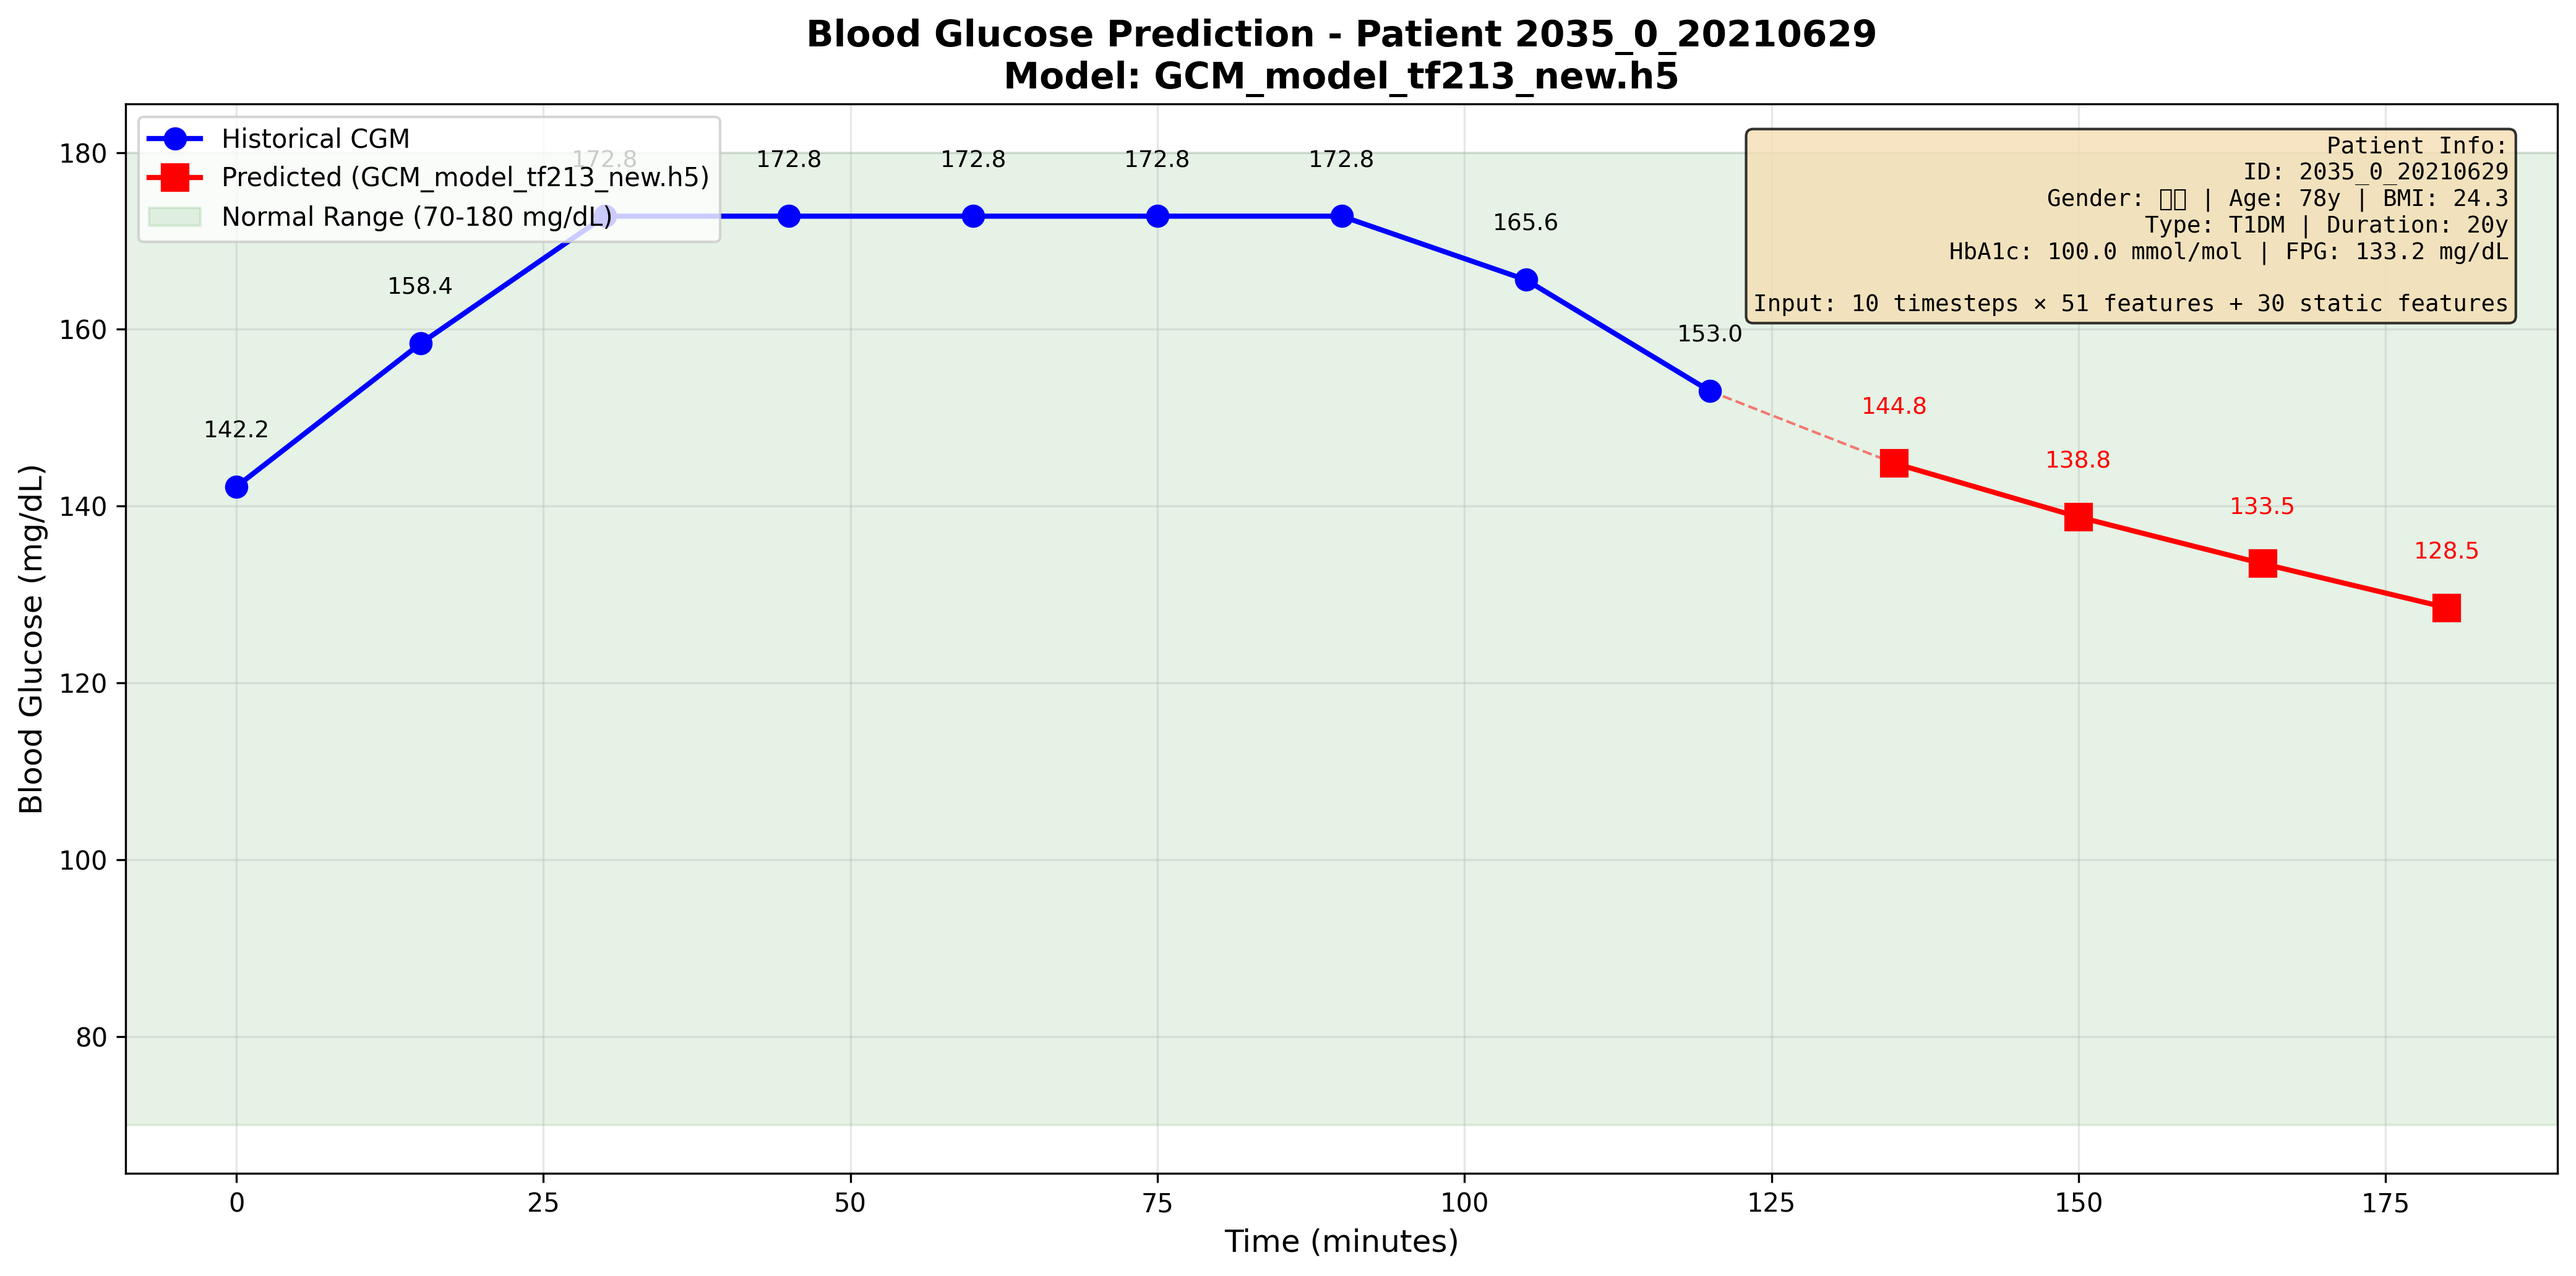
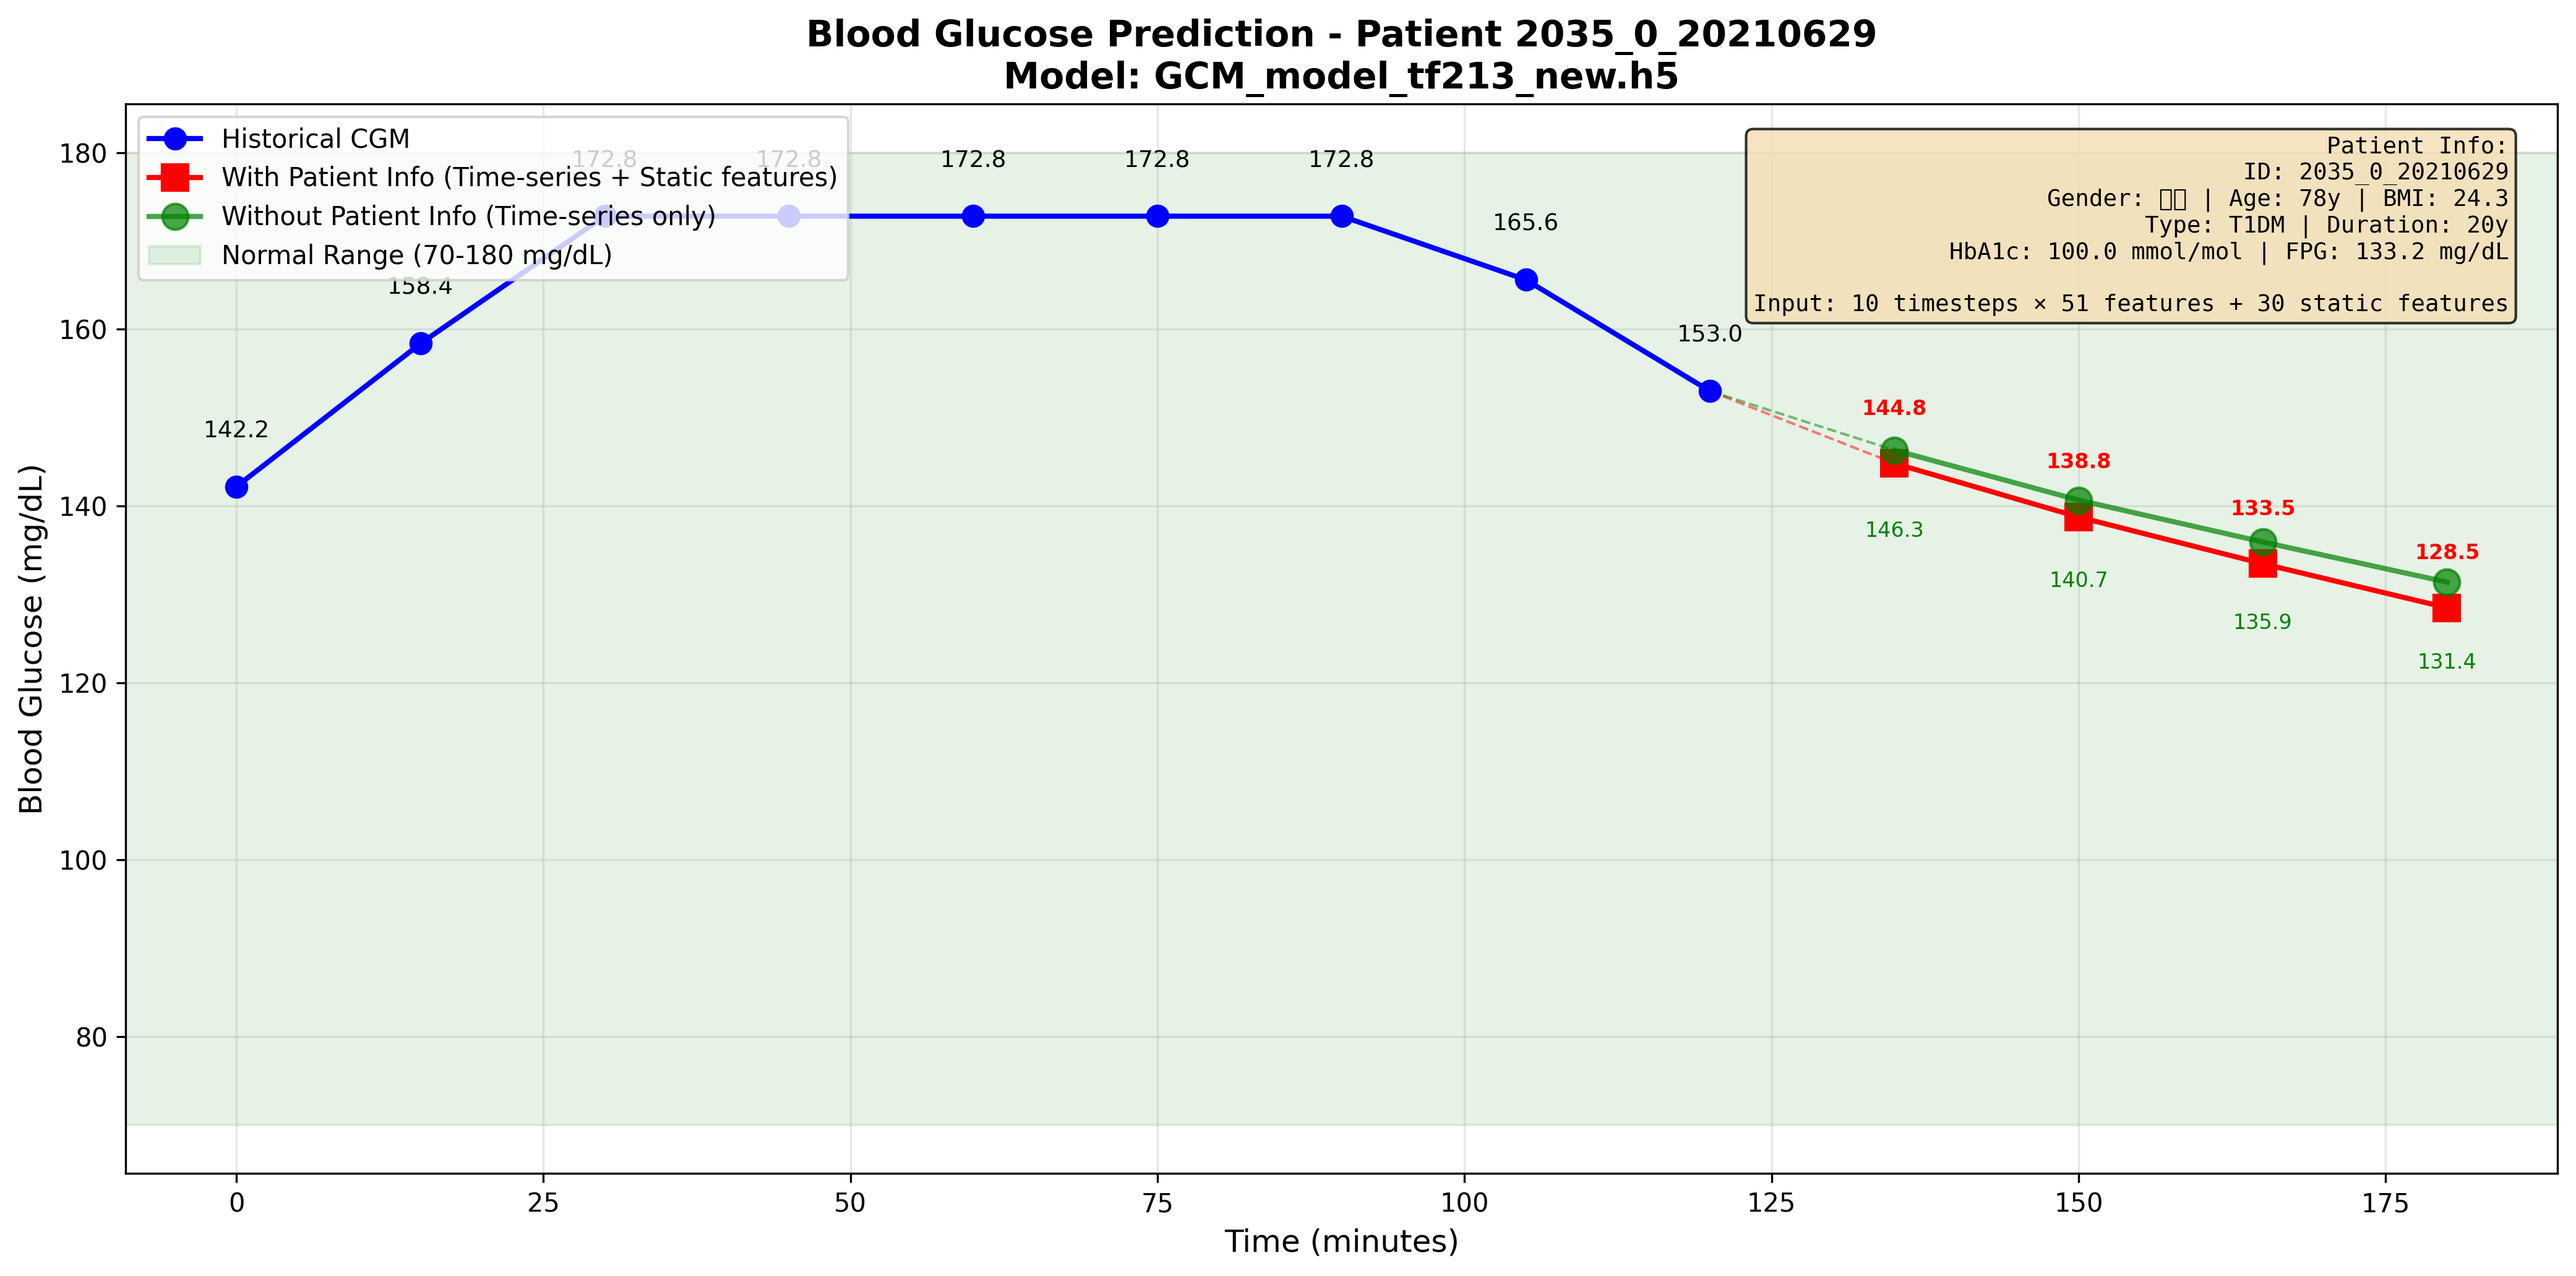
添加双预测线对比：有/无患者信息
功能改进：
- 在同一张图上显示两条预测线进行对比
- 红线：使用完整输入（时序特征 + 患者静态特征）
- 绿线：仅使用时序特征（不使用患者基本信息）
- 显示患者信息对预测的具体影响（差异分析）

预测结果分析：
- Demo1: 患者信息影响 -1.63 至 -3.94 mg/dL
- Demo2: 患者信息影响 -1.49 至 -2.91 mg/dL
- Demo3: 患者信息影响 -1.47 至 -4.18 mg/dL

可视化改进：
- 两条预测线不同颜色标识（红色vs绿色）
- 预测值标签上下分布避免重叠
- 图例清晰说明两条线的区别
- 控制台输出详细的差异分析

技术实现：
- 将静态特征设为零向量模拟不使用患者信息
- 保持时序特征不变进行对比
- 两次推理展示特征贡献度

文件更新：
- demo1_gcm_model.py
- demo2_gcm_model_tf213.py
- demo3_tflite_model.py
- 重新生成3张对比图片

🤖 Generated with [Claude Code](https://claude.com/claude-code)

diff --git a/demo3_tflite_model.py b/demo3_tflite_model.py
@@ -182,25 +182,40 @@ print("\n[7] 进行预测...")
 ts_X_input_float32 = ts_X_input.astype(np.float32)
 static_X_input_float32 = static_X_input.astype(np.float32)
 
-# 设置输入张量
+# 预测1: 使用完整输入（时序 + 患者静态特征）
+print("\n  [7.1] 使用完整输入（时序特征 + 患者静态特征）...")
 interpreter.set_tensor(input_details[0]['index'], ts_X_input_float32)
 interpreter.set_tensor(input_details[1]['index'], static_X_input_float32)
-
-# 运行推理
 interpreter.invoke()
+y_pred_full_scaled = interpreter.get_tensor(output_details[0]['index'])
+y_pred_full = scaler_y.inverse_transform(y_pred_full_scaled)
 
-# 获取输出
-y_pred_scaled = interpreter.get_tensor(output_details[0]['index'])
-print(f"预测输出形状: {y_pred_scaled.shape}")
+print("\n  完整输入预测结果:")
+print(f"    15分钟后血糖: {y_pred_full[0][0]:.2f} mg/dL")
+print(f"    30分钟后血糖: {y_pred_full[0][1]:.2f} mg/dL")
+print(f"    45分钟后血糖: {y_pred_full[0][2]:.2f} mg/dL")
+print(f"    60分钟后血糖: {y_pred_full[0][3]:.2f} mg/dL")
 
-# 反标准化
-y_pred = scaler_y.inverse_transform(y_pred_scaled)
+# 预测2: 仅使用时序特征（静态特征设为零向量）
+print("\n  [7.2] 仅使用时序特征（不使用患者基本信息）...")
+static_X_input_zero = np.zeros_like(static_X_input).astype(np.float32)
+interpreter.set_tensor(input_details[0]['index'], ts_X_input_float32)
+interpreter.set_tensor(input_details[1]['index'], static_X_input_zero)
+interpreter.invoke()
+y_pred_no_static_scaled = interpreter.get_tensor(output_details[0]['index'])
+y_pred_no_static = scaler_y.inverse_transform(y_pred_no_static_scaled)
 
-print("\n预测结果:")
-print(f"  15分钟后血糖: {y_pred[0][0]:.2f} mg/dL")
-print(f"  30分钟后血糖: {y_pred[0][1]:.2f} mg/dL")
-print(f"  45分钟后血糖: {y_pred[0][2]:.2f} mg/dL")
-print(f"  60分钟后血糖: {y_pred[0][3]:.2f} mg/dL")
+print("\n  仅时序特征预测结果:")
+print(f"    15分钟后血糖: {y_pred_no_static[0][0]:.2f} mg/dL")
+print(f"    30分钟后血糖: {y_pred_no_static[0][1]:.2f} mg/dL")
+print(f"    45分钟后血糖: {y_pred_no_static[0][2]:.2f} mg/dL")
+print(f"    60分钟后血糖: {y_pred_no_static[0][3]:.2f} mg/dL")
+
+# 计算差异
+print("\n  预测差异分析:")
+for i, time in enumerate(['15分钟', '30分钟', '45分钟', '60分钟']):
+    diff = y_pred_full[0][i] - y_pred_no_static[0][i]
+    print(f"    {time}: {diff:+.2f} mg/dL (患者信息的影响)")
 
 # 8. 可视化结果
 print("\n[8] 绘制血糖预测图...")
@@ -216,20 +231,31 @@ fig, ax = plt.subplots(figsize=(14, 7))
 # 历史血糖值
 ax.plot(time_points, cgm_values, 'bo-', linewidth=2, markersize=8, label='Historical CGM', zorder=3)
 
-# 预测血糖值
-ax.plot(prediction_times, y_pred[0], 'rs-', linewidth=2, markersize=10,
-         label='Predicted (glucose_predictor.tflite)', zorder=3)
+# 预测线1: 使用完整输入（时序 + 患者信息）
+ax.plot(prediction_times, y_pred_full[0], 'rs-', linewidth=2, markersize=10,
+         label='With Patient Info (Time-series + Static features)', zorder=3)
+
+# 预测线2: 仅使用时序特征（不使用患者信息）
+ax.plot(prediction_times, y_pred_no_static[0], 'go-', linewidth=2, markersize=10,
+         label='Without Patient Info (Time-series only)', zorder=3, alpha=0.7)
 
 # 连接线
-ax.plot([time_points[-1], prediction_times[0]], [cgm_values[-1], y_pred[0][0]],
+ax.plot([time_points[-1], prediction_times[0]], [cgm_values[-1], y_pred_full[0][0]],
          'r--', alpha=0.5, linewidth=1)
+ax.plot([time_points[-1], prediction_times[0]], [cgm_values[-1], y_pred_no_static[0][0]],
+         'g--', alpha=0.5, linewidth=1)
 
-# 添加数值标签
+# 添加数值标签 - 历史值
 for i, (t, v) in enumerate(zip(time_points, cgm_values)):
     ax.text(t, v + 5, f'{v:.1f}', ha='center', va='bottom', fontsize=9)
 
-for i, (t, v) in enumerate(zip(prediction_times, y_pred[0])):
-    ax.text(t, v + 5, f'{v:.1f}', ha='center', va='bottom', fontsize=9, color='red')
+# 添加数值标签 - 完整输入预测
+for i, (t, v) in enumerate(zip(prediction_times, y_pred_full[0])):
+    ax.text(t, v + 5, f'{v:.1f}', ha='center', va='bottom', fontsize=8, color='red', fontweight='bold')
+
+# 添加数值标签 - 仅时序预测
+for i, (t, v) in enumerate(zip(prediction_times, y_pred_no_static[0])):
+    ax.text(t, v - 8, f'{v:.1f}', ha='center', va='top', fontsize=8, color='green')
 
 # 添加正常血糖范围阴影
 ax.axhspan(70, 180, alpha=0.1, color='green', label='Normal Range (70-180 mg/dL)')

diff --git a/demo2_gcm_model_tf213.py b/demo2_gcm_model_tf213.py
@@ -165,17 +165,35 @@ print(f"模型输出: {model.output.shape}")
 
 # 7. 进行预测
 print("\n[7] 进行预测...")
-y_pred_scaled = model.predict([ts_X_input, static_X_input])
-print(f"预测输出形状: {y_pred_scaled.shape}")
 
-# 反标准化
-y_pred = scaler_y.inverse_transform(y_pred_scaled)
+# 预测1: 使用完整输入（时序 + 患者静态特征）
+print("\n  [7.1] 使用完整输入（时序特征 + 患者静态特征）...")
+y_pred_full_scaled = model.predict([ts_X_input, static_X_input], verbose=0)
+y_pred_full = scaler_y.inverse_transform(y_pred_full_scaled)
 
-print("\n预测结果:")
-print(f"  15分钟后血糖: {y_pred[0][0]:.2f} mg/dL")
-print(f"  30分钟后血糖: {y_pred[0][1]:.2f} mg/dL")
-print(f"  45分钟后血糖: {y_pred[0][2]:.2f} mg/dL")
-print(f"  60分钟后血糖: {y_pred[0][3]:.2f} mg/dL")
+print("\n  完整输入预测结果:")
+print(f"    15分钟后血糖: {y_pred_full[0][0]:.2f} mg/dL")
+print(f"    30分钟后血糖: {y_pred_full[0][1]:.2f} mg/dL")
+print(f"    45分钟后血糖: {y_pred_full[0][2]:.2f} mg/dL")
+print(f"    60分钟后血糖: {y_pred_full[0][3]:.2f} mg/dL")
+
+# 预测2: 仅使用时序特征（静态特征设为零向量）
+print("\n  [7.2] 仅使用时序特征（不使用患者基本信息）...")
+static_X_input_zero = np.zeros_like(static_X_input)  # 创建零向量
+y_pred_no_static_scaled = model.predict([ts_X_input, static_X_input_zero], verbose=0)
+y_pred_no_static = scaler_y.inverse_transform(y_pred_no_static_scaled)
+
+print("\n  仅时序特征预测结果:")
+print(f"    15分钟后血糖: {y_pred_no_static[0][0]:.2f} mg/dL")
+print(f"    30分钟后血糖: {y_pred_no_static[0][1]:.2f} mg/dL")
+print(f"    45分钟后血糖: {y_pred_no_static[0][2]:.2f} mg/dL")
+print(f"    60分钟后血糖: {y_pred_no_static[0][3]:.2f} mg/dL")
+
+# 计算差异
+print("\n  预测差异分析:")
+for i, time in enumerate(['15分钟', '30分钟', '45分钟', '60分钟']):
+    diff = y_pred_full[0][i] - y_pred_no_static[0][i]
+    print(f"    {time}: {diff:+.2f} mg/dL (患者信息的影响)")
 
 # 8. 可视化结果
 print("\n[8] 绘制血糖预测图...")
@@ -191,20 +209,31 @@ fig, ax = plt.subplots(figsize=(14, 7))
 # 历史血糖值
 ax.plot(time_points, cgm_values, 'bo-', linewidth=2, markersize=8, label='Historical CGM', zorder=3)
 
-# 预测血糖值
-ax.plot(prediction_times, y_pred[0], 'rs-', linewidth=2, markersize=10,
-         label='Predicted (GCM_model_tf213_new.h5)', zorder=3)
+# 预测线1: 使用完整输入（时序 + 患者信息）
+ax.plot(prediction_times, y_pred_full[0], 'rs-', linewidth=2, markersize=10,
+         label='With Patient Info (Time-series + Static features)', zorder=3)
+
+# 预测线2: 仅使用时序特征（不使用患者信息）
+ax.plot(prediction_times, y_pred_no_static[0], 'go-', linewidth=2, markersize=10,
+         label='Without Patient Info (Time-series only)', zorder=3, alpha=0.7)
 
 # 连接线
-ax.plot([time_points[-1], prediction_times[0]], [cgm_values[-1], y_pred[0][0]],
+ax.plot([time_points[-1], prediction_times[0]], [cgm_values[-1], y_pred_full[0][0]],
          'r--', alpha=0.5, linewidth=1)
+ax.plot([time_points[-1], prediction_times[0]], [cgm_values[-1], y_pred_no_static[0][0]],
+         'g--', alpha=0.5, linewidth=1)
 
-# 添加数值标签
+# 添加数值标签 - 历史值
 for i, (t, v) in enumerate(zip(time_points, cgm_values)):
     ax.text(t, v + 5, f'{v:.1f}', ha='center', va='bottom', fontsize=9)
 
-for i, (t, v) in enumerate(zip(prediction_times, y_pred[0])):
-    ax.text(t, v + 5, f'{v:.1f}', ha='center', va='bottom', fontsize=9, color='red')
+# 添加数值标签 - 完整输入预测
+for i, (t, v) in enumerate(zip(prediction_times, y_pred_full[0])):
+    ax.text(t, v + 5, f'{v:.1f}', ha='center', va='bottom', fontsize=8, color='red', fontweight='bold')
+
+# 添加数值标签 - 仅时序预测
+for i, (t, v) in enumerate(zip(prediction_times, y_pred_no_static[0])):
+    ax.text(t, v - 8, f'{v:.1f}', ha='center', va='top', fontsize=8, color='green')
 
 # 添加正常血糖范围阴影
 ax.axhspan(70, 180, alpha=0.1, color='green', label='Normal Range (70-180 mg/dL)')

diff --git a/demo1_gcm_model.py b/demo1_gcm_model.py
@@ -165,17 +165,35 @@ print(f"模型输出: {model.output.shape}")
 
 # 7. 进行预测
 print("\n[7] 进行预测...")
-y_pred_scaled = model.predict([ts_X_input, static_X_input])
-print(f"预测输出形状: {y_pred_scaled.shape}")
 
-# 反标准化
-y_pred = scaler_y.inverse_transform(y_pred_scaled)
+# 预测1: 使用完整输入（时序 + 患者静态特征）
+print("\n  [7.1] 使用完整输入（时序特征 + 患者静态特征）...")
+y_pred_full_scaled = model.predict([ts_X_input, static_X_input], verbose=0)
+y_pred_full = scaler_y.inverse_transform(y_pred_full_scaled)
 
-print("\n预测结果:")
-print(f"  15分钟后血糖: {y_pred[0][0]:.2f} mg/dL")
-print(f"  30分钟后血糖: {y_pred[0][1]:.2f} mg/dL")
-print(f"  45分钟后血糖: {y_pred[0][2]:.2f} mg/dL")
-print(f"  60分钟后血糖: {y_pred[0][3]:.2f} mg/dL")
+print("\n  完整输入预测结果:")
+print(f"    15分钟后血糖: {y_pred_full[0][0]:.2f} mg/dL")
+print(f"    30分钟后血糖: {y_pred_full[0][1]:.2f} mg/dL")
+print(f"    45分钟后血糖: {y_pred_full[0][2]:.2f} mg/dL")
+print(f"    60分钟后血糖: {y_pred_full[0][3]:.2f} mg/dL")
+
+# 预测2: 仅使用时序特征（静态特征设为零向量）
+print("\n  [7.2] 仅使用时序特征（不使用患者基本信息）...")
+static_X_input_zero = np.zeros_like(static_X_input)  # 创建零向量
+y_pred_no_static_scaled = model.predict([ts_X_input, static_X_input_zero], verbose=0)
+y_pred_no_static = scaler_y.inverse_transform(y_pred_no_static_scaled)
+
+print("\n  仅时序特征预测结果:")
+print(f"    15分钟后血糖: {y_pred_no_static[0][0]:.2f} mg/dL")
+print(f"    30分钟后血糖: {y_pred_no_static[0][1]:.2f} mg/dL")
+print(f"    45分钟后血糖: {y_pred_no_static[0][2]:.2f} mg/dL")
+print(f"    60分钟后血糖: {y_pred_no_static[0][3]:.2f} mg/dL")
+
+# 计算差异
+print("\n  预测差异分析:")
+for i, time in enumerate(['15分钟', '30分钟', '45分钟', '60分钟']):
+    diff = y_pred_full[0][i] - y_pred_no_static[0][i]
+    print(f"    {time}: {diff:+.2f} mg/dL (患者信息的影响)")
 
 # 8. 可视化结果
 print("\n[8] 绘制血糖预测图...")
@@ -191,20 +209,31 @@ fig, ax = plt.subplots(figsize=(14, 7))
 # 历史血糖值
 ax.plot(time_points, cgm_values, 'bo-', linewidth=2, markersize=8, label='Historical CGM', zorder=3)
 
-# 预测血糖值
-ax.plot(prediction_times, y_pred[0], 'rs-', linewidth=2, markersize=10,
-         label='Predicted (GCM_model.h5)', zorder=3)
+# 预测线1: 使用完整输入（时序 + 患者信息）
+ax.plot(prediction_times, y_pred_full[0], 'rs-', linewidth=2, markersize=10,
+         label='With Patient Info (Time-series + Static features)', zorder=3)
+
+# 预测线2: 仅使用时序特征（不使用患者信息）
+ax.plot(prediction_times, y_pred_no_static[0], 'go-', linewidth=2, markersize=10,
+         label='Without Patient Info (Time-series only)', zorder=3, alpha=0.7)
 
 # 连接线
-ax.plot([time_points[-1], prediction_times[0]], [cgm_values[-1], y_pred[0][0]],
+ax.plot([time_points[-1], prediction_times[0]], [cgm_values[-1], y_pred_full[0][0]],
          'r--', alpha=0.5, linewidth=1)
+ax.plot([time_points[-1], prediction_times[0]], [cgm_values[-1], y_pred_no_static[0][0]],
+         'g--', alpha=0.5, linewidth=1)
 
-# 添加数值标签
+# 添加数值标签 - 历史值
 for i, (t, v) in enumerate(zip(time_points, cgm_values)):
     ax.text(t, v + 5, f'{v:.1f}', ha='center', va='bottom', fontsize=9)
 
-for i, (t, v) in enumerate(zip(prediction_times, y_pred[0])):
-    ax.text(t, v + 5, f'{v:.1f}', ha='center', va='bottom', fontsize=9, color='red')
+# 添加数值标签 - 完整输入预测
+for i, (t, v) in enumerate(zip(prediction_times, y_pred_full[0])):
+    ax.text(t, v + 5, f'{v:.1f}', ha='center', va='bottom', fontsize=8, color='red', fontweight='bold')
+
+# 添加数值标签 - 仅时序预测
+for i, (t, v) in enumerate(zip(prediction_times, y_pred_no_static[0])):
+    ax.text(t, v - 8, f'{v:.1f}', ha='center', va='top', fontsize=8, color='green')
 
 # 添加正常血糖范围阴影
 ax.axhspan(70, 180, alpha=0.1, color='green', label='Normal Range (70-180 mg/dL)')
